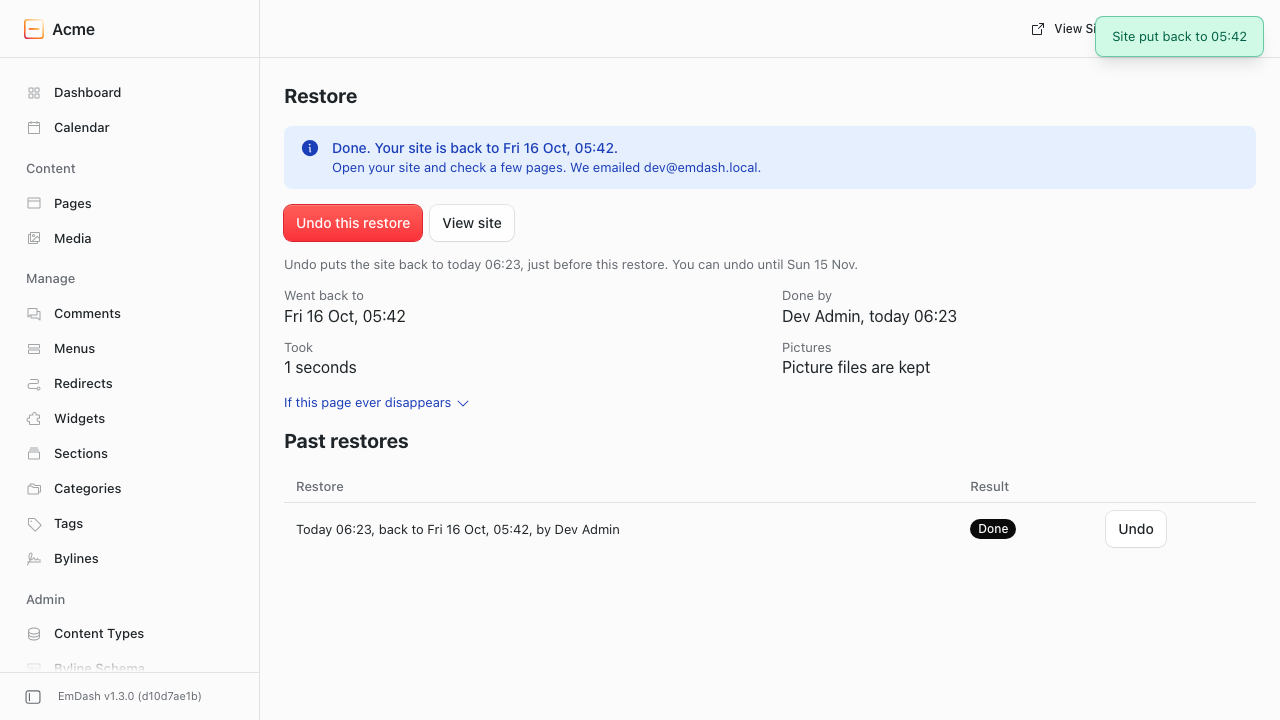
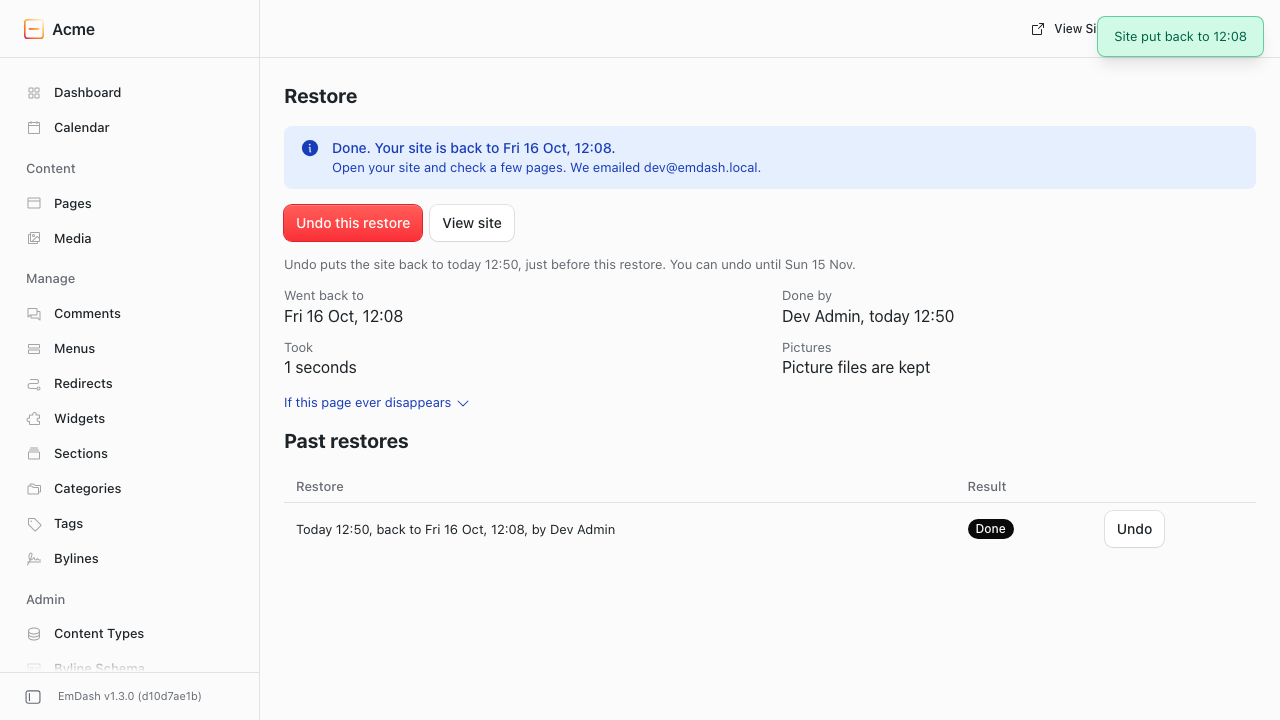
Read everything before the tick on Restore's review, and show times in the site's own time zone

diff --git a/packages/plugin-restore/src/admin.ts b/packages/plugin-restore/src/admin.ts
@@ -23,6 +23,7 @@ import {
 	type Review,
 	type ReviewGroup,
 	type ReviewState,
+	refreshZone,
 } from "./operations.js";
 import { people, personName } from "./site-data.js";
 import {
@@ -38,7 +39,7 @@ import {
 	type Connection,
 	type RestoreRecord,
 } from "./state.js";
-import { clock, DAY, fromLocal, localDay, moment, relative, since } from "./time.js";
+import { clock, DAY, fromLocal, localDay, moment, relative, since, zoneSentence } from "./time.js";
 
 const ADMIN_ROLE = 50;
 const LOST_TEXT_LIMIT = 20_000;
@@ -319,6 +320,7 @@ function connectedScreen(connection: Connection): BlockResponse {
 					},
 				],
 			},
+			context(zoneSentence(connection.zone, connection.zoneSet !== false)),
 			actions(button("back", "Go to Restore", { style: "primary" })),
 		],
 		toast: { type: "success", message: "Key checked and saved" },
@@ -410,6 +412,8 @@ async function mainScreen(
 	now: number,
 	extra: { toast?: BlockResponse["toast"]; top?: Block[] } = {},
 ): Promise<BlockResponse> {
+	const key = await loadKey(ctx);
+	if (key) connection = await refreshZone(ctx, connection, siteQuery(client(ctx, key), connection));
 	const zone = connection.zone;
 	const blocks: Block[] = [PAGE_TITLE, ...(extra.top ?? [])];
 	if (!connection.lastCheck.ok) {
@@ -426,11 +430,10 @@ async function mainScreen(
 	blocks.push(
 		ONE_PAGE,
 		header("Go back to just before a change"),
-		context(`Newest first. Times are in ${zone}.`),
+		context(`Newest first. ${zoneSentence(zone, connection.zoneSet !== false, now)}`),
 	);
 
 	let changes: ReviewGroup[] | null = null;
-	const key = await loadKey(ctx);
 	if (key) {
 		changes = await recentChanges(
 			ctx,
@@ -643,6 +646,7 @@ function reviewScreen(
 	state: ReviewState,
 	zone: string,
 	now: number,
+	zoneSet = true,
 ): BlockResponse {
 	const { review } = state;
 	const at = clock(review.moment, zone);
@@ -660,6 +664,7 @@ function reviewScreen(
 				? `Just before "${review.picked.what}" (${review.picked.whoName.toLowerCase() === "you" ? "you" : review.picked.whoName}, ${clock(review.picked.at, zone)}). Nothing has changed yet.`
 				: "Nothing has changed yet.",
 		),
+		context(zoneSentence(zone, zoneSet, now)),
 	);
 	blocks.push(
 		{
@@ -750,14 +755,12 @@ function reviewScreen(
 		);
 	}
 
-	if (enquiriesFirst) {
-		blocks.push(header("These will be undone"));
-		blocks.push(undoneTable(review, zone));
-		blocks.push(
-			context(`Settings, menus and plugin settings also go back to how they were at ${at}.`),
-		);
-		return { blocks };
-	}
+	// Everything is read before the warning, the tick and the red button.
+	blocks.push(header("These will be undone"), undoneTable(review, zone));
+	blocks.push(
+		context(`Settings, menus and plugin settings also go back to how they were at ${at}.`),
+	);
+	if (enquiriesFirst) return { blocks };
 
 	blocks.push(banner("alert", "Before you go back", warningText(review, at)));
 	blocks.push(
@@ -797,12 +800,6 @@ function reviewScreen(
 				: "Tick the box to continue. This takes up to a minute. You can undo it afterwards.",
 		),
 	);
-	if (review.groups.length > 0) {
-		blocks.push(header("These will be undone"), undoneTable(review, zone));
-		blocks.push(
-			context(`Settings, menus and plugin settings also go back to how they were at ${at}.`),
-		);
-	}
 	return { blocks };
 }
 
@@ -1049,7 +1046,7 @@ export async function handleAdmin(
 			if (action === "enquiries_ok") state.ack = true;
 			else state.ticked = Array.isArray(interaction.value) && interaction.value.includes("yes");
 			await ctx.kv.set("review", state);
-			return reviewScreen(ctx, state, connection.zone, now);
+			return reviewScreen(ctx, state, connection.zone, now, connection.zoneSet !== false);
 		}
 		case "restore": {
 			const state = await ctx.kv.get<ReviewState>("review");
@@ -1112,7 +1109,7 @@ export async function handleAdmin(
 					undo: { point, of: str(value.of), at: str(value.at) },
 				};
 				await ctx.kv.set("review", state);
-				return reviewScreen(ctx, state, connection.zone, now);
+				return reviewScreen(ctx, state, connection.zone, now, connection.zoneSet !== false);
 			}
 			const outcome = await keepPending(
 				ctx,
@@ -1186,6 +1183,10 @@ async function pickAction(
 	interaction: Interaction,
 	now: number,
 ): Promise<BlockResponse> {
+	const siteKey = await loadKey(ctx);
+	if (siteKey) {
+		connection = await refreshZone(ctx, connection, siteQuery(client(ctx, siteKey), connection));
+	}
 	const zone = connection.zone;
 	let at = "";
 	let picked: Parameters<typeof buildReview>[5];
@@ -1231,7 +1232,7 @@ async function pickAction(
 	}
 	const state: ReviewState = { review, byId: me.id, ack: false, ticked: false };
 	await ctx.kv.set("review", state);
-	return reviewScreen(ctx, state, zone, now);
+	return reviewScreen(ctx, state, zone, now, connection.zoneSet !== false);
 }
 
 async function adminNames(ctx: PluginContext, connection: Connection | null): Promise<string[]> {

diff --git a/packages/plugin-restore/tests/admin.test.ts b/packages/plugin-restore/tests/admin.test.ts
@@ -360,6 +360,30 @@ describe("reviewing and restoring", () => {
 		expect(find(undone, "banner")?.title).toMatch(/^Done\./);
 	});
 
+	it("puts everything to read above the warning, the tick and the red button", async () => {
+		const s = await connected();
+		await review(s);
+		await act(s, { type: "block_action", action_id: "enquiries_ok" });
+		const ticked = await act(s, { type: "block_action", action_id: "understand", value: ["yes"] });
+		const at = (pick: (b: (typeof ticked.blocks)[number]) => boolean) =>
+			ticked.blocks.findIndex(pick);
+		const lost = at((b) => b.type === "header" && b.text === "Text of edits that will be lost");
+		const undone = at((b) => b.type === "header" && b.text === "These will be undone");
+		const warning = at((b) => b.type === "banner" && b.title === "Before you go back");
+		const tick = at((b) => b.type === "actions" && b.elements.some((e) => e.type === "checkbox"));
+		const red = at(
+			(b) =>
+				b.type === "actions" &&
+				b.elements.some((e) => e.type === "button" && e.action_id === "restore"),
+		);
+		expect(lost).toBeGreaterThan(0);
+		expect(lost).toBeLessThan(undone);
+		expect(undone).toBeLessThan(warning);
+		expect(warning).toBeLessThan(tick);
+		expect(tick).toBeLessThan(red);
+		expect(red).toBe(ticked.blocks.length - 2);
+	});
+
 	it("reviews an undo like a restore when anything happened since: enquiries first, then the tick", async () => {
 		const s = await connected();
 		const undo = {
@@ -438,6 +462,18 @@ describe("reviewing and restoring", () => {
 });
 
 describe("keeping it working", () => {
+	it("says times are in UTC because the site has no time zone, then follows the site's zone once set", async () => {
+		const s = await connected();
+		const before = await act(s, { type: "page_load" });
+		expect(text(before)).toContain("Times are in UTC, because this site has no time zone set.");
+		await sql(
+			"INSERT INTO options (name, value) VALUES ('site:timezone', '\"Asia/Kolkata\"') ON CONFLICT (name) DO UPDATE SET value = excluded.value",
+		);
+		const after = await act(s, { type: "page_load" });
+		expect(text(after)).toContain("Newest first. Times are in India Standard Time (IST).");
+		expect((await s.ctx.kv.get<Connection>("connection"))?.zone).toBe("Asia/Kolkata");
+	});
+
 	it("saves several email addresses and refuses a wrong one", async () => {
 		const s = await connected();
 		const bad = await act(s, {

diff --git a/apps/demo-site/tests/restore.spec.ts b/apps/demo-site/tests/restore.spec.ts
@@ -86,6 +86,10 @@ test("before setup it says what it is not, and connecting finds the site and eve
 		timeout: 30_000,
 	});
 	await expect(page.getByText(/demo-site \(this site\), another-site/)).toBeVisible();
+	// The demo site has no time zone yet: times are in UTC, and the page says why.
+	await expect(
+		page.getByText("Times are in UTC, because this site has no time zone set."),
+	).toBeVisible();
 });
 
 test("going back to just before a change: enquiries first, lost text, tick, red dialog, done, undo", async ({
@@ -94,6 +98,9 @@ test("going back to just before a change: enquiries first, lost text, tick, red 
 	// Put the timeline in place: Restore set up two hours ago, then a page edit and an enquiry.
 	const d = db();
 	d.prepare("UPDATE _emdash_migrations SET timestamp = ?").run(ago(3 * HOUR));
+	d.prepare(
+		"INSERT INTO options (name, value) VALUES ('site:timezone', '\"Asia/Kolkata\"') ON CONFLICT (name) DO UPDATE SET value = excluded.value",
+	).run();
 	d.prepare("UPDATE users SET created_at = ?, updated_at = ?").run(ago(3 * HOUR), ago(3 * HOUR));
 	const admin = d.prepare("SELECT id FROM users ORDER BY created_at LIMIT 1").get() as {
 		id: string;
@@ -137,7 +144,10 @@ test("going back to just before a change: enquiries first, lost text, tick, red 
 
 	await open(page);
 	const row = page.getByRole("row", { name: /Pricing \(page\) edited · You/ });
-	await expect(row).toBeVisible({ timeout: 30_000 });
+	await expect(row).toBeVisible({ timeout: 60_000 });
+	await expect(
+		page.getByText("Newest first. Times are in India Standard Time (IST)."),
+	).toBeVisible();
 	await expect(page.getByRole("row", { name: /Enquiry from a form · A visitor/ })).toBeVisible();
 	await shot(page, "pick-a-moment");
 	await row.getByRole("button", { name: /^Go back to \d\d:\d\d$/ }).click();

diff --git a/packages/plugin-restore/src/operations.ts b/packages/plugin-restore/src/operations.ts
@@ -160,7 +160,7 @@ export async function connect(
 		// Stays at 7.
 	}
 	const expiresOn = await api.expiresOn(site.accountId).catch(() => null);
-	const zone = validTimeZone(await timeZone(query).catch(() => null));
+	const { zone, zoneSet } = readZone(await timeZone(query).catch(() => null));
 	const previous = await loadConnection(ctx);
 	const setupAt =
 		previous && previous.databaseId === site.databaseId
@@ -172,6 +172,7 @@ export async function connect(
 		windowDays,
 		reach,
 		zone,
+		zoneSet,
 		expiresOn,
 		lastCheck: { at: new Date(now).toISOString(), ok: true },
 	};
@@ -232,6 +233,26 @@ export async function check(ctx: PluginContext, now: number): Promise<Connection
 			now,
 		);
 	}
+	return next;
+}
+
+function readZone(value: string | null): { zone: string; zoneSet: boolean } {
+	const zone = validTimeZone(value);
+	return { zone, zoneSet: value !== null && zone === value };
+}
+
+/** The site's time zone can change after setup; read it again and keep it current. */
+export async function refreshZone(
+	ctx: PluginContext,
+	connection: Connection,
+	query: Query,
+): Promise<Connection> {
+	const value = await timeZone(query).catch(() => undefined);
+	if (value === undefined) return connection;
+	const { zone, zoneSet } = readZone(value);
+	if (zone === connection.zone && zoneSet === connection.zoneSet) return connection;
+	const next = { ...connection, zone, zoneSet };
+	await ctx.kv.set("connection", next);
 	return next;
 }
 

diff --git a/packages/plugin-restore/src/time.ts b/packages/plugin-restore/src/time.ts
@@ -116,3 +116,27 @@ export function fromLocal(day: string, hour: number, minute: number, zone: strin
 	}
 	return new Date(guess).toISOString();
 }
+
+/**
+ * The zone in words for the page: "India Standard Time (IST)", "Japan Standard Time (GMT+9)".
+ * The abbreviation is the first one any English locale offers that isn't a bare offset.
+ */
+export function zoneLabel(zone: string, at = Date.now()): string {
+	const name = (locale: string, style: "long" | "short") =>
+		new Intl.DateTimeFormat(locale, { timeZone: zone, timeZoneName: style })
+			.formatToParts(new Date(at))
+			.find((part) => part.type === "timeZoneName")?.value ?? "";
+	const long = name("en-GB", "long");
+	const shorts = ["en-GB", "en-US", "en-IN", "en-AU"].map((locale) => name(locale, "short"));
+	const short = shorts.find((s) => s && !s.startsWith("GMT")) ?? shorts[0] ?? "";
+	if (!long) return zone;
+	return short && short !== long ? `${long} (${short})` : long;
+}
+
+/** "Times are in India Standard Time (IST)." or the UTC fallback, said plainly. */
+export function zoneSentence(zone: string, zoneSet: boolean, at = Date.now()): string {
+	if (!zoneSet) {
+		return "Times are in UTC, because this site has no time zone set. Set one in Settings > General to see your own time.";
+	}
+	return `Times are in ${zoneLabel(zone, at)}.`;
+}

diff --git a/packages/plugin-restore/src/state.ts b/packages/plugin-restore/src/state.ts
@@ -24,6 +24,8 @@ export interface Connection {
 	windowDays: number;
 	reach: Reach[];
 	zone: string;
+	/** False when the site has no time zone set, so times are shown in UTC. */
+	zoneSet?: boolean;
 	expiresOn: string | null;
 	lastCheck: { at: string; ok: boolean; problem?: string };
 }
